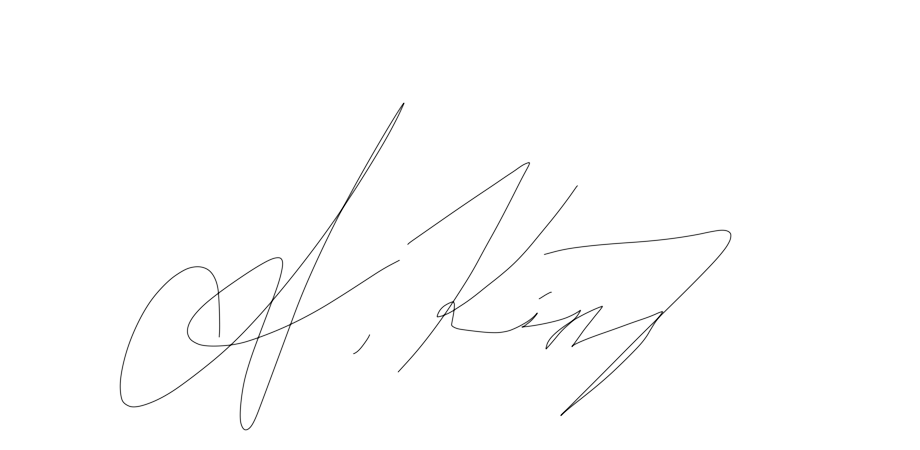
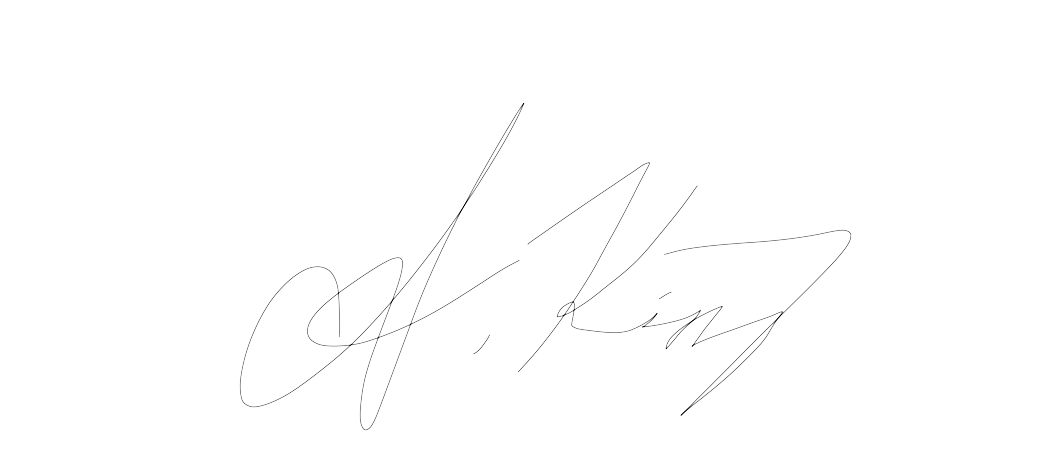
Signature: padding on left and right

diff --git a/about.html b/about.html
@@ -66,7 +66,7 @@
             <p>I've shaped my gift over the years through trial and error, practicing for hours at a time until my technique finally clicked (though I still have so much to learn, and I love that).</p>
             <p>I hope having a little bit of everything here keeps things exciting and unique for you. There's still so much more in store as I keep building up my collection every day. I hope you love what you see! Thank you so much for stopping by!</p>
             <div class="signature">
-              <img src="images/amanda-signature.png?v=2" alt="Amanda King's signature" />
+              <img src="images/amanda-signature.png?v=3" alt="Amanda King's signature" />
             </div>
           </div>
         </div>
